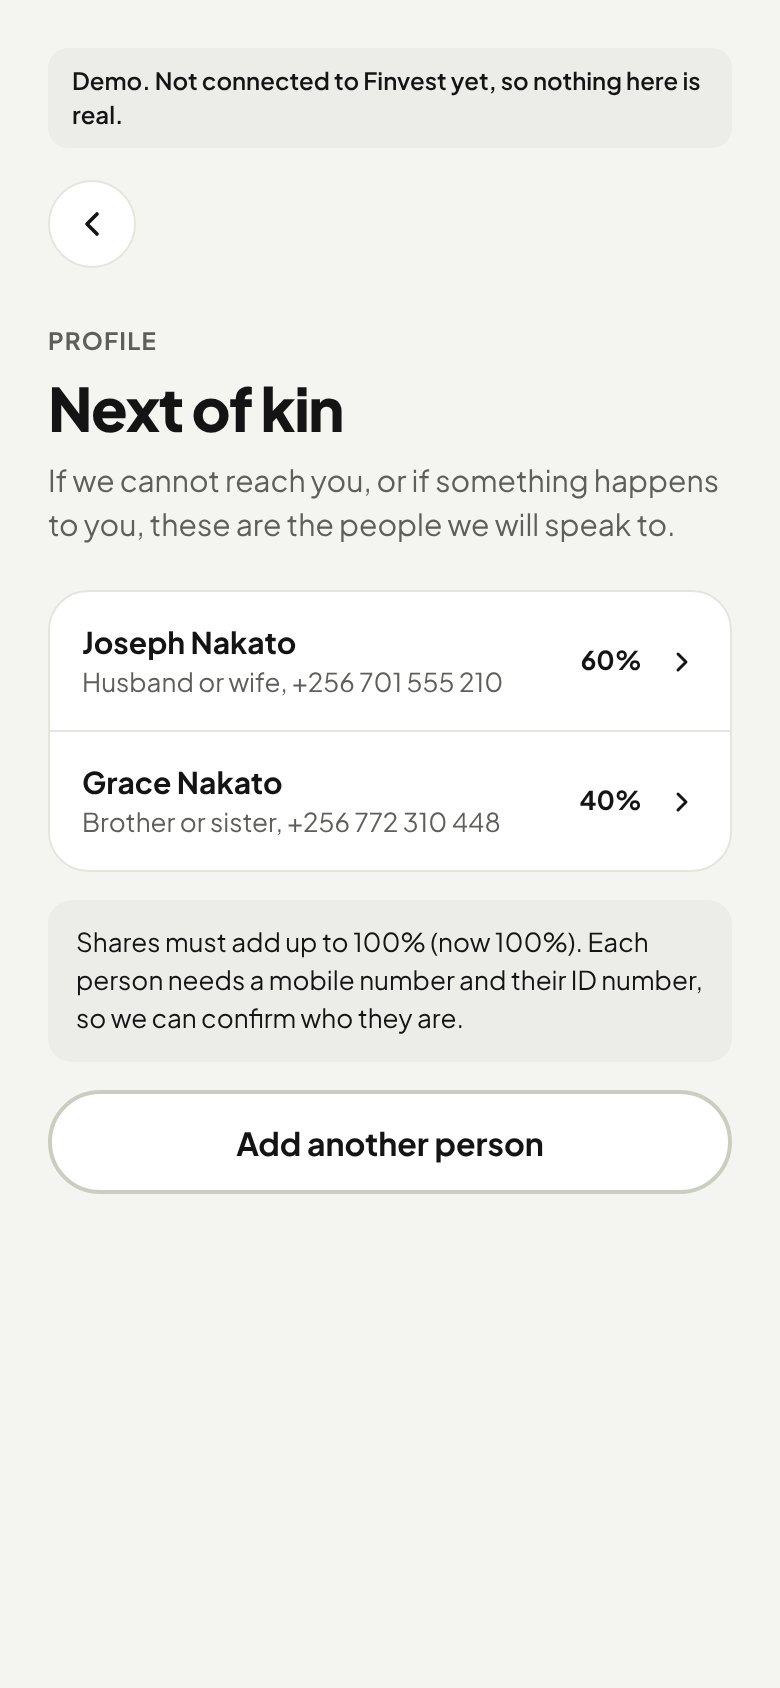
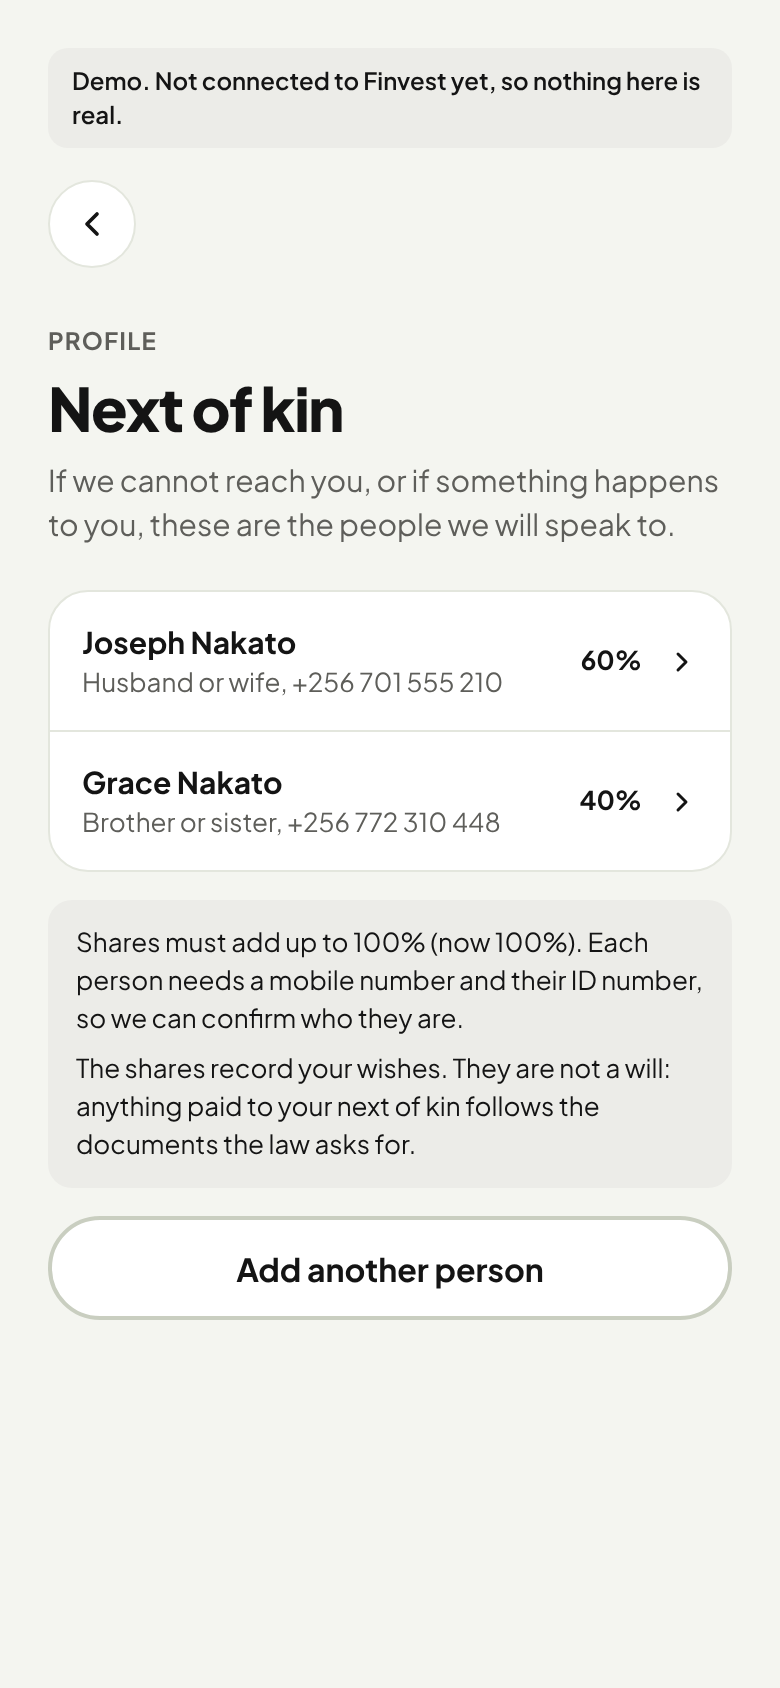
Say on the next of kin screen that shares are wishes, not a will
docs/client-profile.md already says the shares record the client's
wishes and that any payment to a next of kin follows the documents the
law requires, but the screen asked for percentages without saying so.

diff --git a/apps/client/src/app/account/next-of-kin.tsx b/apps/client/src/app/account/next-of-kin.tsx
@@ -239,10 +239,14 @@ export default function NextOfKinScreen() {
             </Card>
           )}
 
-          <View style={styles.info}>
+          <View style={[styles.info, { gap: 6 }]}>
             <Txt size={fontSizes.sm}>
               Shares must add up to 100%{people.length ? ` (now ${bpsToPercent(total)})` : ""}. Each person needs a
               mobile number and their ID number, so we can confirm who they are.
+            </Txt>
+            <Txt size={fontSizes.sm}>
+              The shares record your wishes. They are not a will: anything paid to your next of kin follows the
+              documents the law asks for.
             </Txt>
           </View>
 
